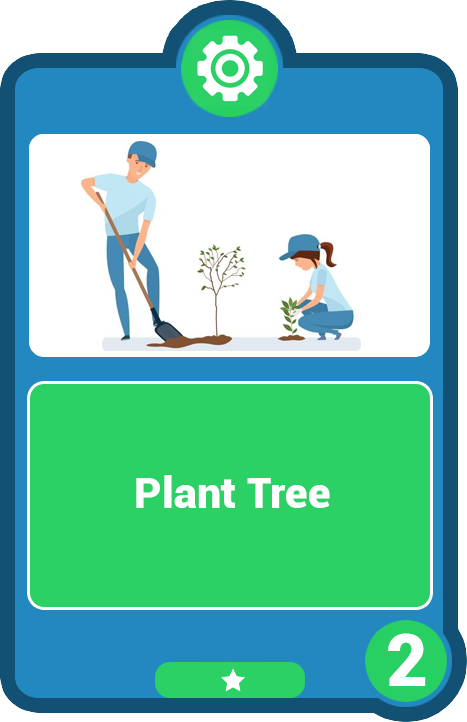
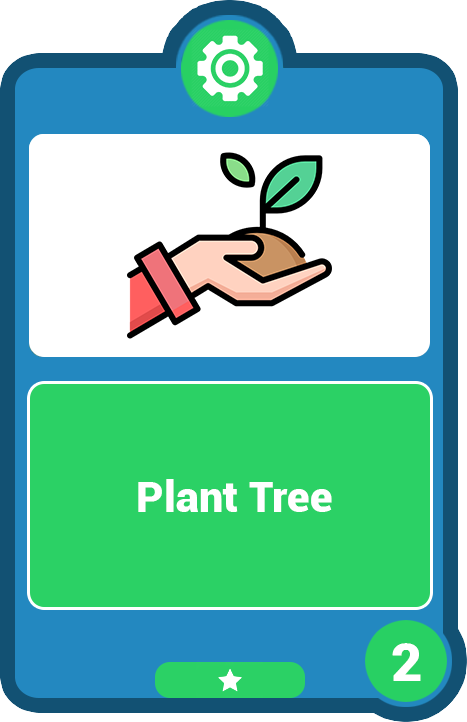
Changed the look of cards. Social card of type destroy works.

diff --git a/core/src/com/xdays/game/states/PlayState.java b/core/src/com/xdays/game/states/PlayState.java
@@ -92,14 +92,22 @@ public class PlayState extends State{
             			System.out.println(manager.getUser().getHand().get(i).getTitle());
             			Card selectedCard = manager.getUser().getHand().get(i);
             			if(selectedCard instanceof Social) {
-            				if(((Social) selectedCard).isSelectedCardNeeded()) {
-            					messageToPrint = "Select cards to apply the social card to";
-            					System.out.println("Select cards to apply the social card to");
-            					selectedCardsNeeded = true;
-            					lastCardPlayed = selectedCard;
-            					lastCardPlayed.halfPlayed();
+            				if(!manager.getAIBoard().getField().isEmpty() && !manager.getPlayerBoard().getField().isEmpty()) {
+                				if(((Social) selectedCard).isSelectedCardNeeded()) {
+                					messageToPrint = "Select cards to apply the social card to";
+                					System.out.println("Select cards to apply the social card to");
+                					selectedCardsNeeded = true;
+                					lastCardPlayed = selectedCard;
+                					lastCardPlayed.halfPlayed();
+                				}else {
+                					((Social) selectedCard).doEffect(manager.getPlayerBoard(), null);
+                					messageToPrint = "Social card applied.";
+                					System.out.println("Select card applied to: " + ((Social) selectedCard).getSocialEffect().getChosenCard());
+                					
+                				}
             				}else {
-            					
+            					messageToPrint = "No cards have been placed on the board yet.";
+            					System.out.println("No cards have been placed on the board yet.");
             				}
             			}else {
                 			if(selectedCard.getStars()>1 && !selectedCard.isPlayed()) {

diff --git a/core/src/com/xdays/game/states/MapState.java b/core/src/com/xdays/game/states/MapState.java
@@ -18,7 +18,7 @@ public class MapState extends State{
         background = new Texture("Area Selection.png");
         marker = new Texture("Marker.png");
         hoverMarker = new Texture("Marker Hover.png");
-        markerBounds = new Rectangle((cam.position.x - 350), (cam.position.y - 150), marker.getWidth()/3, marker.getHeight()/3);
+        markerBounds = new Rectangle((cam.position.x - 335), (cam.position.y - 120), marker.getWidth()/3, marker.getHeight()/3);
 	}
 
 	@Override
@@ -44,10 +44,10 @@ public class MapState extends State{
         sb.draw(background, 0,0);
         Rectangle bounds = new Rectangle(Gdx.input.getX(), -(Gdx.input.getY()-720), 5, 5);
         if(bounds.overlaps(markerBounds)) {
-        	sb.draw(hoverMarker, (cam.position.x - 350), (cam.position.y - 150), hoverMarker.getWidth()/3, hoverMarker.getHeight()/3);
+        	sb.draw(hoverMarker, (cam.position.x - 335), (cam.position.y - 120), hoverMarker.getWidth()/3, hoverMarker.getHeight()/3);
         	//System.out.println("True");
         }else {
-        	sb.draw(marker, (cam.position.x - 350), (cam.position.y - 150), marker.getWidth()/3, marker.getHeight()/3);
+        	sb.draw(marker, (cam.position.x - 335), (cam.position.y - 120), marker.getWidth()/3, marker.getHeight()/3);
         }
         sb.end();
 	}

diff --git a/core/src/com/xdays/game/cards/EditEmmison.java b/core/src/com/xdays/game/cards/EditEmmison.java
@@ -9,6 +9,7 @@ import com.xdays.game.Board;
 public class EditEmmison implements SocialEffect{
 	
 	private Random rand;
+	private Card chosenCard;
 	
 	/**
 	 * @param board - The board to be altered
@@ -22,11 +23,12 @@ public class EditEmmison implements SocialEffect{
 				boolean found = false;
 				Card c = null;
 				while (!found) {
-					c = board.getField().get(rand.nextInt(board.getField().size() - 1));
+					c = board.getField().get(rand.nextInt(board.getField().size() - 2));
 					if (c instanceof Industry) {
 						found = true;
 					}
 				}
+				chosenCard = c;
 				((Industry) c).editBuff(amount);
 			} else {
 				((Industry) card).editBuff(amount);
@@ -34,5 +36,9 @@ public class EditEmmison implements SocialEffect{
 		}
 		
 		return board;	
+	}
+	
+	public Card getChosenCard() {
+		return chosenCard;
 	}
 }

diff --git a/core/src/com/xdays/game/CardGameManager.java b/core/src/com/xdays/game/CardGameManager.java
@@ -1,6 +1,7 @@
 package com.xdays.game;
 
 import java.util.ArrayList;
+import java.util.concurrent.TimeUnit;
 
 import com.xdays.game.cards.Card;
 import com.xdays.game.cards.CardReader;
@@ -37,10 +38,10 @@ public class CardGameManager {
 		this.user.setHand(cardReader.getIndustryCardsArray());
 		this.enemyAI.setHand(cardReader.getIndustryCardsBadArray());	
 		
-		//this.user.getHand().remove(0);
-		//this.user.getHand().remove(1);
+		this.user.getHand().remove(0);
+		this.user.getHand().remove(1);
 		
-		this.user.getHand().add(cardReader.getSocialCards().get("Online Posts"));
+		this.user.getHand().add(cardReader.getSocialCards().get("Protests2"));
 		this.user.getHand().add(cardReader.getSocialCards().get("Protests"));
 		
 		System.out.println(this.user.getHand().size());

diff --git a/core/src/com/xdays/game/cards/Destroy.java b/core/src/com/xdays/game/cards/Destroy.java
@@ -34,6 +34,12 @@ public class Destroy implements SocialEffect {
 		}
 		return board;
 	}
+
+	@Override
+	public Card getChosenCard() {
+		// TODO Auto-generated method stub
+		return null;
+	}
 	
 	
 	

diff --git a/core/src/com/xdays/game/cards/EditStar.java b/core/src/com/xdays/game/cards/EditStar.java
@@ -15,6 +15,12 @@ public class EditStar implements SocialEffect{
 		
 		return board;
 	}
+
+	@Override
+	public Card getChosenCard() {
+		// TODO Auto-generated method stub
+		return null;
+	}
 	
 	
 	

diff --git a/core/src/com/xdays/game/cards/SocialEffect.java b/core/src/com/xdays/game/cards/SocialEffect.java
@@ -5,4 +5,6 @@ import com.xdays.game.Board;
 public interface SocialEffect {
 	
 	abstract Board doEffect(Board board, Card card, int amount);
+	
+	abstract Card getChosenCard();
 }
